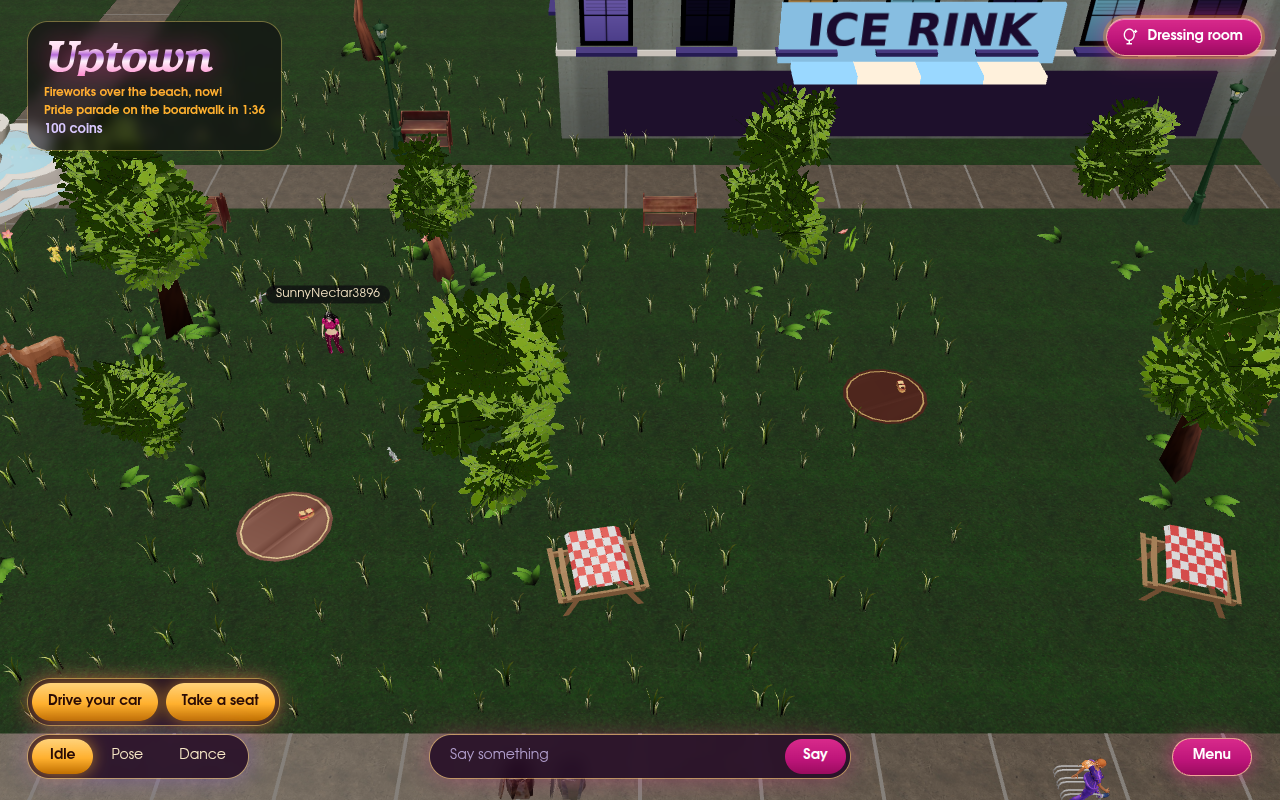
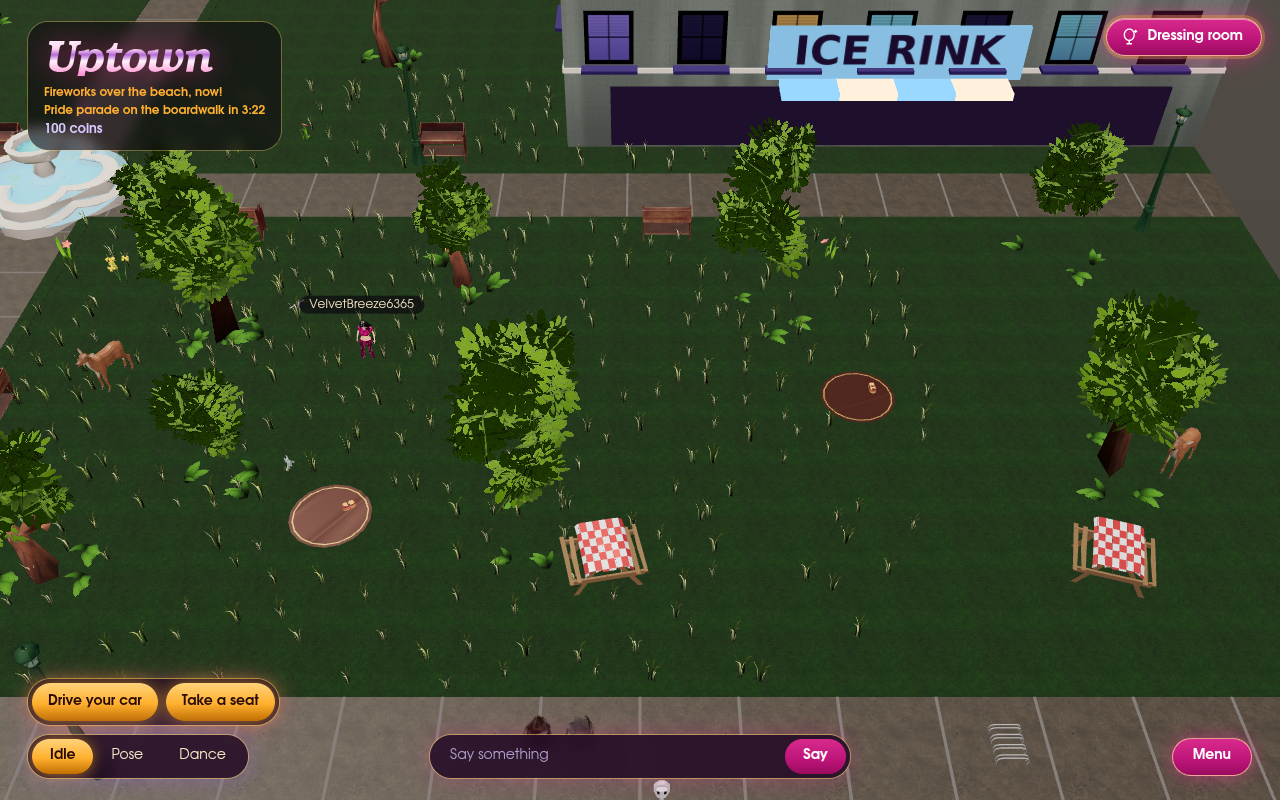
refactor(client): one bakedGeometry() for every loaded mesh whose transform is baked; park wildlife count for tests

diff --git a/src/client/world/bakedGeometry.test.ts b/src/client/world/bakedGeometry.test.ts
@@ -1,8 +1,20 @@
-// Quantized glTF vertices must become floats before baking a node's meter scale.
-import { test } from "node:test";
+// Quantized glTF geometry must survive node transforms before fitting props.
 import assert from "node:assert/strict";
+import { test } from "node:test";
 import * as THREE from "three";
-import { modelGeometry } from "./modelGeometry.ts";
+import { bakedGeometry, floated } from "./bakedGeometry.ts";
+
+test("floated positions retain values beyond the normalized range", () => {
+  const geometry = new THREE.BufferGeometry();
+  geometry.setAttribute(
+    "position",
+    new THREE.BufferAttribute(new Int16Array([32767, 0, 0]), 3, true),
+  );
+  const result = floated(geometry).applyMatrix4(
+    new THREE.Matrix4().makeScale(3, 3, 3),
+  );
+  assert.equal(result.getAttribute("position").getX(0), 3);
+});
 
 test("baking quantized mesh transforms preserves dimensions and source geometry", () => {
   const source = new THREE.BufferGeometry();
@@ -18,7 +30,7 @@ test("baking quantized mesh transforms preserves dimensions and source geometry"
   mesh.position.set(12, 1.5, 2);
   mesh.scale.setScalar(4.4);
   mesh.updateMatrixWorld(true);
-  const baked = modelGeometry(mesh);
+  const baked = bakedGeometry(mesh);
   baked.computeBoundingBox();
   assert.ok(baked.boundingBox);
   assert.ok(Math.abs(baked.boundingBox.min.x - 7.6) < 0.00001);

diff --git a/src/client/rooms/zoo/Scatter.tsx b/src/client/rooms/zoo/Scatter.tsx
@@ -7,7 +7,7 @@ import { useEffect, useMemo, type JSX } from "react";
 import * as THREE from "three";
 import type { Spot } from "../../../game/zoo.ts";
 import { disposeInstanced } from "../../city/dispose.ts";
-import { floated } from "../../city/floated.ts";
+import { bakedGeometry } from "../../world/bakedGeometry.ts";
 
 export function Scatter({
   url,
@@ -31,10 +31,9 @@ export function Scatter({
     const out: THREE.InstancedMesh[] = [];
     gltf.scene.traverse((o) => {
       if (!(o instanceof THREE.Mesh)) return;
-      // floated: the optimized GLBs store quantized integers, which a baked
+      // bakedGeometry: the optimized GLBs store quantized integers, which a baked
       // transform would truncate or clamp (squashed trees, black normals)
-      const geometry = floated(o.geometry as THREE.BufferGeometry);
-      geometry.applyMatrix4(o.matrixWorld);
+      const geometry = bakedGeometry(o);
       const source = Array.isArray(o.material) ? o.material[0] : o.material;
       const material = source?.clone();
       if (color && material instanceof THREE.MeshStandardMaterial) {

diff --git a/src/client/rooms/LaserTag.tsx b/src/client/rooms/LaserTag.tsx
@@ -12,7 +12,7 @@ import { ARENA, COVER, rivalAt } from "../../game/laserTag.ts";
 import type { Look } from "../../game/look.ts";
 import { ROOMS } from "../../game/rooms.ts";
 import { surface } from "../city/worldTexture.ts";
-import { floated } from "../city/floated.ts";
+import { bakedGeometry } from "../world/bakedGeometry.ts";
 import type { Player } from "../world/PlayerController.tsx";
 import { useReducedMotion } from "../motion.ts";
 import { Batch } from "./shared/batch.ts";
@@ -171,7 +171,7 @@ function CoverModels() {
       if (object instanceof THREE.Mesh && !source) source = object;
     });
     if (!source) throw new Error("Sci-fi crate has no mesh");
-    const geometry = floated(source.geometry).applyMatrix4(source.matrixWorld);
+    const geometry = bakedGeometry(source);
     geometry.computeBoundingBox();
     const bounds = geometry.boundingBox!;
     const size = bounds.getSize(new THREE.Vector3());

diff --git a/src/client/city/ParkWildlife.tsx b/src/client/city/ParkWildlife.tsx
@@ -4,7 +4,7 @@
 // on the low tier.
 
 import { useFrame } from "@react-three/fiber";
-import { useState, type JSX } from "react";
+import { useEffect, useState, type JSX } from "react";
 import {
   WILDLIFE,
   WILDLIFE_Y,
@@ -25,10 +25,18 @@ export function ParkWildlife({
     const now = wildlifeNear(player.pos.x, player.pos.z);
     if (now !== near) setNear(now);
   });
+  const shown = near
+    ? WILDLIFE.filter((w) => !(w.highOnly && tier === "low"))
+    : [];
+  // how many animals are drawn, for the browser tests
+  useEffect(() => {
+    const dom = document.querySelector("canvas")?.dataset;
+    if (dom) dom.wildlife = String(shown.length);
+  }, [shown.length]);
   if (!near) return null;
   return (
     <>
-      {WILDLIFE.filter((w) => !(w.highOnly && tier === "low")).map((w, i) => (
+      {shown.map((w, i) => (
         <WanderingCreature
           key={i}
           kind={w.kind}

diff --git a/src/client/rooms/shared/Prop.tsx b/src/client/rooms/shared/Prop.tsx
@@ -2,7 +2,7 @@ import { useGLTF } from "@react-three/drei";
 import type { ThreeElements } from "@react-three/fiber";
 import { useEffect, useLayoutEffect, useMemo, useRef } from "react";
 import * as THREE from "three";
-import { floated } from "../../city/floated.ts";
+import { bakedGeometry } from "../../world/bakedGeometry.ts";
 import { tintHsl } from "../../../game/home/palette.ts";
 
 // Generated props (Meshy) live in public/models/props/<model>.glb, one mesh
@@ -29,7 +29,7 @@ function useFittedParts(
       if (!(o instanceof THREE.Mesh)) return;
       const material = Array.isArray(o.material) ? o.material[0] : o.material;
       if (!material) return;
-      const geometry = floated(o.geometry).applyMatrix4(o.matrixWorld);
+      const geometry = bakedGeometry(o);
       parts.push({ geometry, material });
     });
     if (parts.length === 0) throw new Error(`${model}.glb has no mesh`);

diff --git a/src/client/city/CityTrees.tsx b/src/client/city/CityTrees.tsx
@@ -14,7 +14,7 @@ import { TREE_VARIANTS, type TreeSpot } from "../../game/city/plan.ts";
 import { TREE_LOW_FAR } from "../../game/city/tuning.ts";
 import { createStore } from "../rooms/shared/store.ts";
 import { useQuality } from "../world/quality.ts";
-import { floated } from "./floated.ts";
+import { bakedGeometry } from "../world/bakedGeometry.ts";
 import { disposeInstanced } from "./dispose.ts";
 
 const MODELS = "/models/nature";
@@ -45,8 +45,7 @@ function partsOf(scene: THREE.Object3D): Part[] {
   const parts: Part[] = [];
   scene.traverse((o) => {
     if (!(o instanceof THREE.Mesh)) return;
-    const geometry = floated(o.geometry as THREE.BufferGeometry);
-    geometry.applyMatrix4(o.matrixWorld);
+    const geometry = bakedGeometry(o);
     const material = Array.isArray(o.material) ? o.material[0] : o.material;
     if (material) parts.push({ geometry, material });
   });

diff --git a/src/client/rooms/amusementpark/InstancedModel.tsx b/src/client/rooms/amusementpark/InstancedModel.tsx
@@ -3,6 +3,7 @@
 // places copy k with a matrix. Used for the coaster cars, flume logs and
 // Ferris wheel gondolas. Nothing is allocated per frame.
 
+import { bakedGeometry } from "../../world/bakedGeometry.ts";
 import { useGLTF } from "@react-three/drei";
 import { useFrame } from "@react-three/fiber";
 import { useEffect, useMemo, type JSX } from "react";
@@ -29,8 +30,7 @@ export function InstancedModel({
     const out: THREE.InstancedMesh[] = [];
     gltf.scene.traverse((o) => {
       if (!(o instanceof THREE.Mesh)) return;
-      const geometry = (o.geometry as THREE.BufferGeometry).clone();
-      geometry.applyMatrix4(o.matrixWorld);
+      const geometry = bakedGeometry(o);
       const source = Array.isArray(o.material) ? o.material[0] : o.material;
       const material = source?.clone();
       // transmission makes three.js draw the whole scene a second time into

diff --git a/src/client/city/CityFurniture.tsx b/src/client/city/CityFurniture.tsx
@@ -22,7 +22,7 @@ import {
 import { createStore } from "../rooms/shared/store.ts";
 import { useQuality } from "../world/quality.ts";
 import { useDaylight } from "./daylight.ts";
-import { floated } from "./floated.ts";
+import { bakedGeometry } from "../world/bakedGeometry.ts";
 import { disposeInstanced } from "./dispose.ts";
 
 const MODELS = "/models/street";
@@ -52,8 +52,7 @@ export function partsOf(
   const parts: THREE.InstancedMesh[] = [];
   scene.traverse((o) => {
     if (!(o instanceof THREE.Mesh)) return;
-    const geometry = floated(o.geometry as THREE.BufferGeometry);
-    geometry.applyMatrix4(o.matrixWorld);
+    const geometry = bakedGeometry(o);
     const found = Array.isArray(o.material) ? o.material[0] : o.material;
     if (!found) return;
     // own copy, so the daylight dimming below never touches a shared material

diff --git a/src/client/city/CityHouses.tsx b/src/client/city/CityHouses.tsx
@@ -4,6 +4,7 @@
 // src/game/city/nyc.ts). One InstancedMesh per model part; CityScene hands
 // over the spots on every plan reload (`cityHouses`).
 
+import { bakedGeometry } from "../world/bakedGeometry.ts";
 import { useGLTF } from "@react-three/drei";
 import { useThree } from "@react-three/fiber";
 import { useEffect, useMemo, type JSX } from "react";
@@ -33,8 +34,7 @@ export function CityHouses(): JSX.Element {
         const parts: THREE.InstancedMesh[] = [];
         g.scene.traverse((o) => {
           if (!(o instanceof THREE.Mesh)) return;
-          const geometry = (o.geometry as THREE.BufferGeometry).clone();
-          geometry.applyMatrix4(o.matrixWorld);
+          const geometry = bakedGeometry(o);
           const material = Array.isArray(o.material)
             ? o.material[0]
             : o.material;

diff --git a/tests/client.spec.ts b/tests/client.spec.ts
@@ -3063,3 +3063,19 @@ test("13+ bars serve mocktails: no drink button, no buzz", async ({ page }) => {
   await expect(canvasOf(page)).toHaveAttribute("data-buzz", "0.00");
   await expect(page.getByText(/cocktail|wine|beer|vodka/i)).toHaveCount(0);
 });
+
+test("the park's wildlife appears near the park, and the doe only on the high tier", async ({
+  page,
+}) => {
+  test.setTimeout(330_000);
+  const errors = collectErrors(page);
+  await page.goto("/?quality=low&room=city&at=268,-279");
+  await expect(page.locator("canvas")).toHaveAttribute("data-wildlife", "5", {
+    timeout: 240_000,
+  });
+  await page.goto("/?quality=high&room=city&at=268,-279");
+  await expect(page.locator("canvas")).toHaveAttribute("data-wildlife", "6", {
+    timeout: 240_000,
+  });
+  expect(errors).toEqual([]);
+});

diff --git a/src/client/city/transitModels.ts b/src/client/city/transitModels.ts
@@ -3,7 +3,7 @@
 import { useGLTF } from "@react-three/drei";
 import { useEffect, useMemo } from "react";
 import * as THREE from "three";
-import { modelGeometry } from "./modelGeometry.ts";
+import { bakedGeometry } from "../world/bakedGeometry.ts";
 import { boxMapped } from "./worldTexture.ts";
 import { useDaylight } from "./daylight.ts";
 
@@ -34,7 +34,7 @@ export function useTransitModels(
           scene.updateMatrixWorld(true);
           let geometry: THREE.BufferGeometry | undefined;
           scene.traverse((o) => {
-            if (o instanceof THREE.Mesh) geometry = modelGeometry(o);
+            if (o instanceof THREE.Mesh) geometry = bakedGeometry(o);
           });
           if (!geometry) throw new Error(`Empty transit model: ${kind}`);
           const mat = boxMapped(

diff --git a/src/client/world/bakedGeometry.ts b/src/client/world/bakedGeometry.ts
@@ -1,5 +1,6 @@
 // Float copies of glTF geometry, for models optimized with meshopt
-// quantization (CityFurniture, CityTrees, CityPark bake node transforms in).
+// quantization: every place that bakes a loaded mesh's node transform into its
+// geometry (instanced props, merged scenery) goes through bakedGeometry().
 import * as THREE from "three";
 
 /**
@@ -28,4 +29,9 @@ function floatCopy(
   for (let i = 0; i < a.count; i++)
     out.setXYZ(i, a.getX(i), a.getY(i), a.getZ(i));
   return out;
+}
+
+/** A loaded mesh's geometry with its world transform baked in, safe for quantized GLBs. */
+export function bakedGeometry(mesh: THREE.Mesh): THREE.BufferGeometry {
+  return floated(mesh.geometry).applyMatrix4(mesh.matrixWorld);
 }
